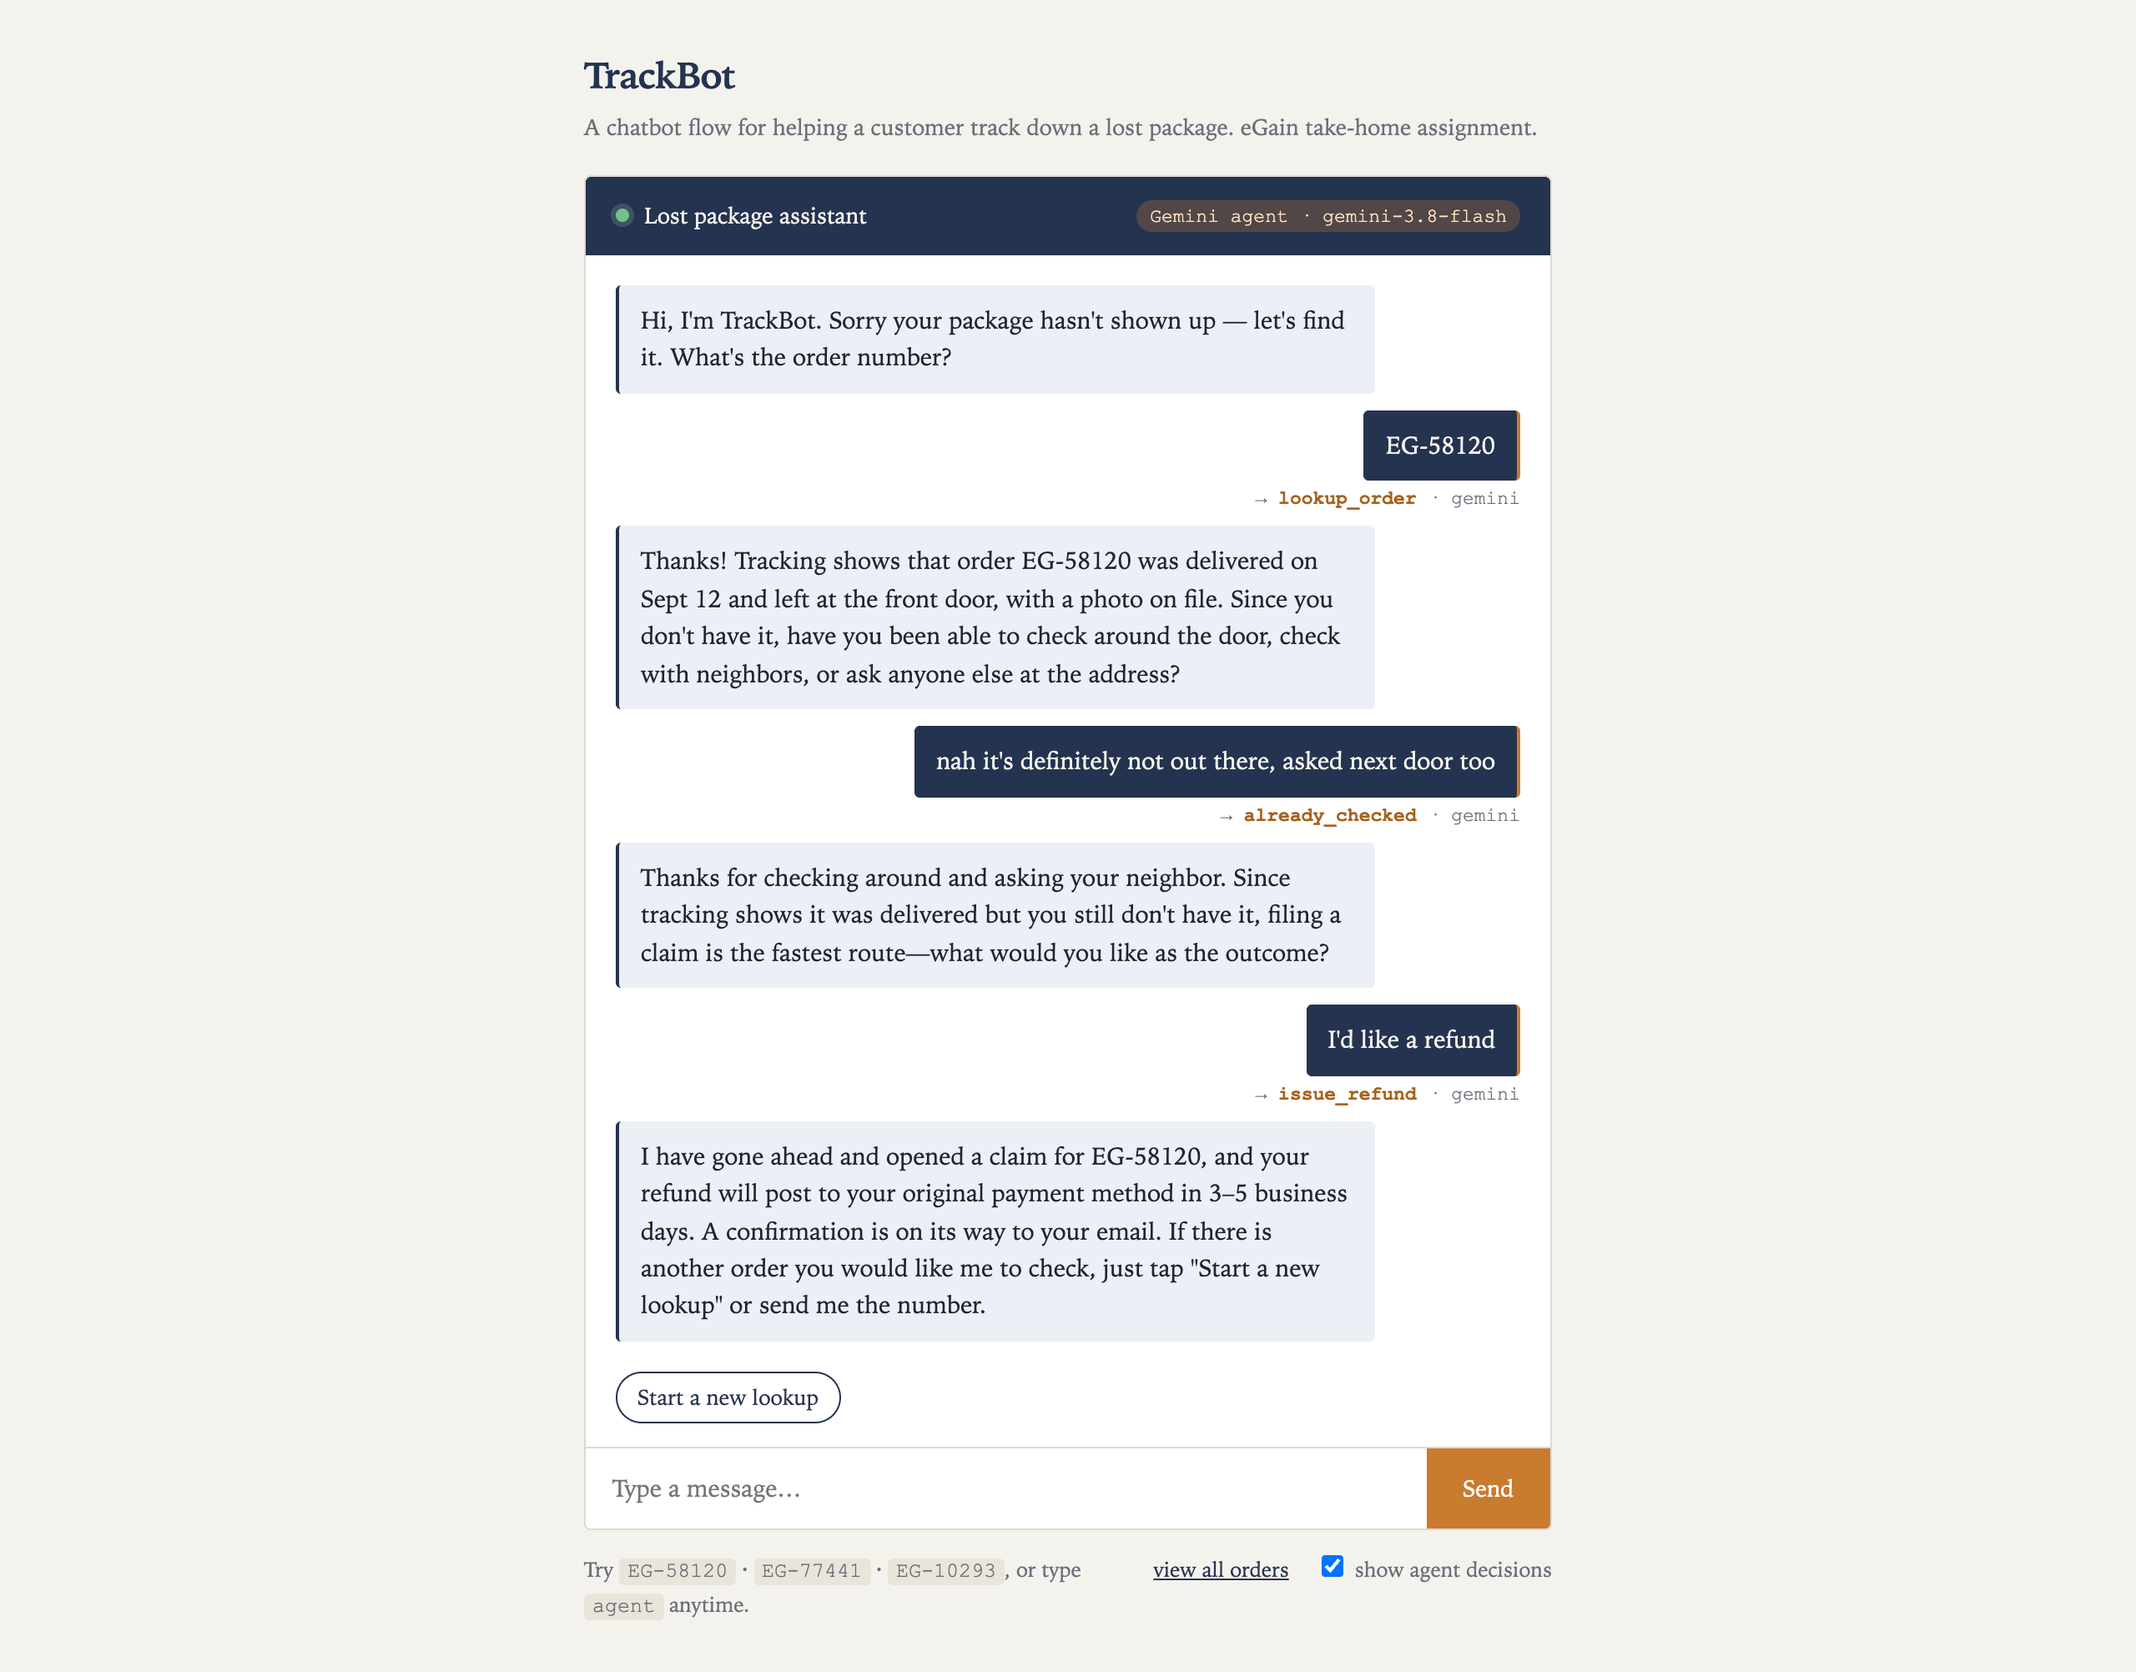
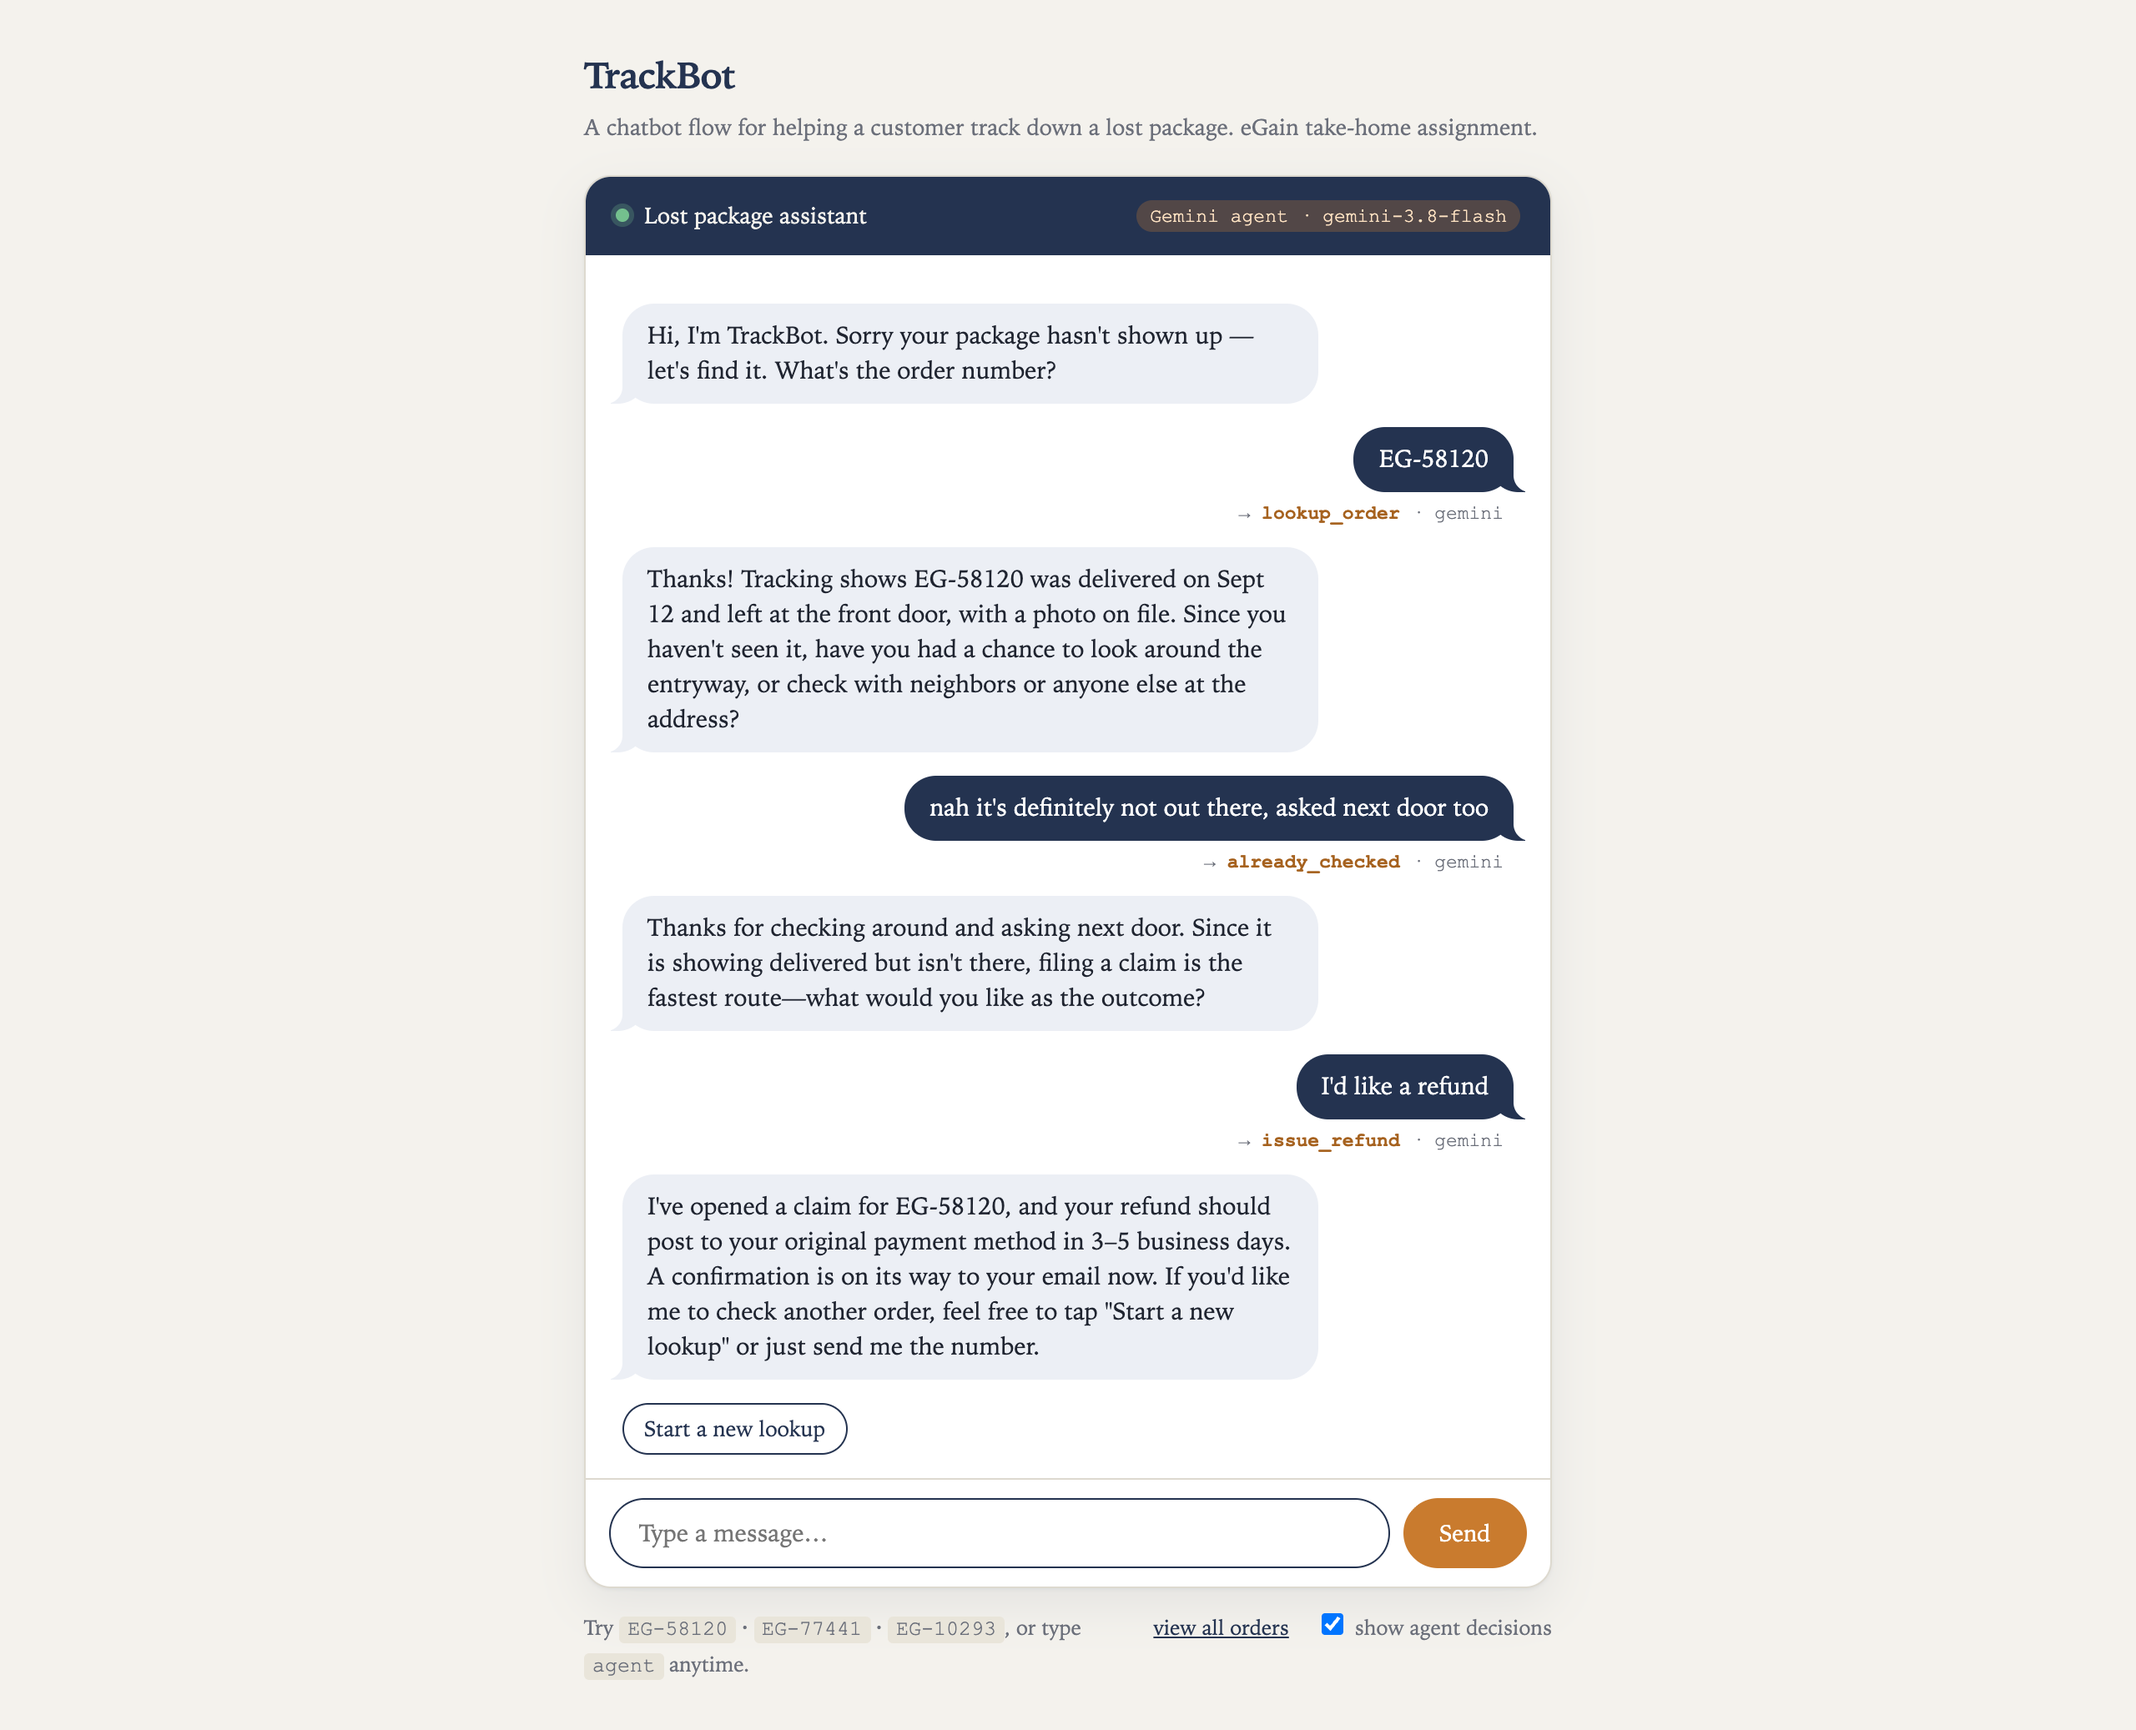
restyle chat as bubbles with tails
Messages are now rounded bubbles with curved tails, grouped by sender so
only the last in a run keeps its tail. Adds an animated typing bubble,
pill-shaped composer, and refreshed README screenshots.

diff --git a/public/index.html b/public/index.html
@@ -19,27 +19,50 @@
   .wrap{width:100%; max-width:580px}
   h1{margin:0; font-size:22px; letter-spacing:-.02em; color:var(--navy)}
   .sub{margin:4px 0 18px; font-size:13.5px; color:var(--muted)}
-  .panel{background:var(--panel); border:1px solid var(--line); border-radius:4px; overflow:hidden}
+  .panel{background:var(--panel); border:1px solid var(--line); border-radius:16px; overflow:hidden;
+         box-shadow:0 1px 2px rgba(36,51,80,.06), 0 10px 28px rgba(36,51,80,.08)}
   .bar{background:var(--navy); color:var(--paper); padding:13px 18px; display:flex; align-items:center; gap:9px; font-size:13.5px}
   .led{width:8px; height:8px; border-radius:50%; background:#74c08e; box-shadow:0 0 0 3px rgba(116,192,142,.25)}
   .mode{margin-left:auto; font:11.5px "Courier New",monospace; padding:3px 8px; border-radius:10px;
         background:rgba(255,255,255,.12); color:#d9dfeb}
   .mode.agent{background:rgba(201,123,46,.28); color:#ffe2c2}
-  #thread{height:430px; overflow-y:auto; padding:18px; display:flex; flex-direction:column; gap:10px}
-  .msg{max-width:84%; padding:10px 13px; border-radius:3px; font-size:14.5px; white-space:pre-wrap}
-  .bot{align-self:flex-start; background:var(--bot); border-left:2px solid var(--navy)}
-  .me{align-self:flex-end; background:var(--navy); color:var(--paper); border-right:2px solid var(--amber)}
-  .err{align-self:flex-start; background:var(--err); border-left:2px solid #b8481f; color:var(--err-ink)}
-  .decision{align-self:flex-end; margin-top:-6px; font:11.5px "Courier New",monospace; color:var(--muted)}
+  #thread{height:430px; overflow-y:auto; padding:18px 22px 10px; display:flex; flex-direction:column; gap:3px; background:var(--panel)}
+
+  /* Chat bubbles. --bubble is the fill; the tail is drawn with two pseudo-elements,
+     one in the bubble colour and one in the thread background that carves the curve. */
+  .msg{position:relative; max-width:78%; padding:9px 15px; border-radius:19px; font-size:14.5px; line-height:1.45;
+       white-space:pre-wrap; overflow-wrap:anywhere; background:var(--bubble); animation:pop .16s ease-out}
+  .msg.start{margin-top:11px}
+  .bot{--bubble:var(--bot); align-self:flex-start; color:var(--ink)}
+  .err{--bubble:var(--err); align-self:flex-start; color:var(--err-ink)}
+  .me{--bubble:var(--navy); align-self:flex-end; color:#fff}
+  .msg.tail::before, .msg.tail::after{content:""; position:absolute; bottom:0; height:19px}
+  .msg.left.tail::before{left:-7px; width:20px; background:var(--bubble); border-bottom-right-radius:16px 14px}
+  .msg.left.tail::after{left:-26px; width:26px; background:var(--panel); border-bottom-right-radius:10px}
+  .msg.right.tail::before{right:-7px; width:20px; background:var(--bubble); border-bottom-left-radius:16px 14px}
+  .msg.right.tail::after{right:-26px; width:26px; background:var(--panel); border-bottom-left-radius:10px}
+  @keyframes pop{from{opacity:0; transform:translateY(5px) scale(.98)}to{opacity:1; transform:none}}
+
+  .decision{align-self:flex-end; margin:3px 6px 0 0; font:11.5px "Courier New",monospace; color:var(--muted)}
   .decision b{color:var(--amber-dk); font-weight:600}
-  .typing{align-self:flex-start; color:var(--muted); font-size:13px; font-style:italic}
-  #chips{display:flex; flex-wrap:wrap; gap:8px; padding:0 18px 14px}
+
+  .typing{display:flex; gap:5px; align-items:center; padding:13px 16px}
+  .typing i{width:7px; height:7px; border-radius:50%; background:#8b93a5; animation:dot 1.1s infinite ease-in-out}
+  .typing i:nth-child(2){animation-delay:.16s}
+  .typing i:nth-child(3){animation-delay:.32s}
+  @keyframes dot{0%,60%,100%{opacity:.35; transform:none}30%{opacity:1; transform:translateY(-3px)}}
+  .sr-only{position:absolute; width:1px; height:1px; overflow:hidden; clip:rect(0 0 0 0); white-space:nowrap}
+  @media (prefers-reduced-motion:reduce){.msg,.typing i{animation:none}}
+
+  #chips{display:flex; flex-wrap:wrap; gap:8px; padding:4px 22px 14px}
   .chip{border:1px solid var(--navy); background:none; color:var(--navy); padding:6px 12px;
         border-radius:20px; font-size:13px; font-family:inherit; cursor:pointer}
   .chip:hover{background:var(--navy); color:var(--paper)}
-  form{display:flex; border-top:1px solid var(--line)}
+  form{display:flex; gap:8px; padding:11px 14px; border-top:1px solid var(--line)}
   input{flex:1; border:0; padding:14px 16px; font-size:14.5px; font-family:inherit; background:none; color:var(--ink); outline:none}
-  button[type=submit]{border:0; background:var(--amber); color:#fff; padding:0 22px; font-size:14px; font-family:inherit; cursor:pointer}
+  #entry{border:1px solid var(--line); border-radius:22px; padding:10px 17px; background:#faf9f6}
+  #entry:focus{border-color:var(--navy); background:#fff}
+  button[type=submit]{border:0; background:var(--amber); color:#fff; padding:0 22px; border-radius:22px; font-size:14px; font-family:inherit; cursor:pointer}
   button[type=submit]:hover{background:var(--amber-dk)}
   button:disabled, input:disabled{opacity:.55; cursor:wait}
   .foot{display:flex; justify-content:space-between; align-items:baseline; gap:12px; margin-top:12px; font-size:12.5px; color:var(--muted)}
@@ -117,12 +140,31 @@ const modeTag = document.getElementById("mode");
 let backend = null;   // { submit(text) -> Promise<reply> }
 
 /* ---------- Rendering ---------- */
+// Bubbles are grouped by sender: only the last bubble in a run keeps its tail.
+function place(el) {
+  const side = el.classList.contains("me") ? "right" : "left";
+  const prev = thread.lastElementChild;
+  const sameRun = prev && prev.classList.contains("msg") && prev.classList.contains(side);
+  if (sameRun) prev.classList.remove("tail");
+  el.classList.add("msg", side, "tail");
+  el.classList.toggle("start", !sameRun);
+  thread.appendChild(el);
+  thread.scrollTop = thread.scrollHeight;
+}
+
 function add(className, text) {
   const el = document.createElement("div");
   el.className = className;
   el.textContent = text;
-  thread.appendChild(el);
-  thread.scrollTop = thread.scrollHeight;
+  place(el);
+  return el;
+}
+
+function addTyping() {
+  const el = document.createElement("div");
+  el.className = "bot typing";
+  el.innerHTML = '<i></i><i></i><i></i><span class="sr-only">TrackBot is thinking…</span>';
+  place(el);
   return el;
 }
 
@@ -137,7 +179,7 @@ function addDecision(d) {
 }
 
 function render(reply) {
-  reply.messages.forEach(m => add("msg " + (m.kind === "err" ? "err" : "bot"), m.text));
+  reply.messages.forEach(m => add(m.kind === "err" ? "err" : "bot", m.text));
   chips.replaceChildren();
   (reply.chips || []).forEach(label => {
     const b = document.createElement("button");
@@ -158,9 +200,9 @@ function busy(on) {
 async function submit(raw) {
   const text = raw.trim();
   if (!text || entry.disabled) return;
-  add("msg me", text);
+  add("me", text);
   busy(true);
-  const typing = add("typing", "TrackBot is thinking…");
+  const typing = addTyping();
   try {
     const reply = await backend.submit(text);
     typing.remove();
@@ -168,7 +210,7 @@ async function submit(raw) {
     render(reply);
   } catch (e) {
     typing.remove();
-    add("msg err", "Something went wrong on my end. Please try again in a moment.");
+    add("err", "Something went wrong on my end. Please try again in a moment.");
     console.error(e);
   } finally {
     busy(false);
